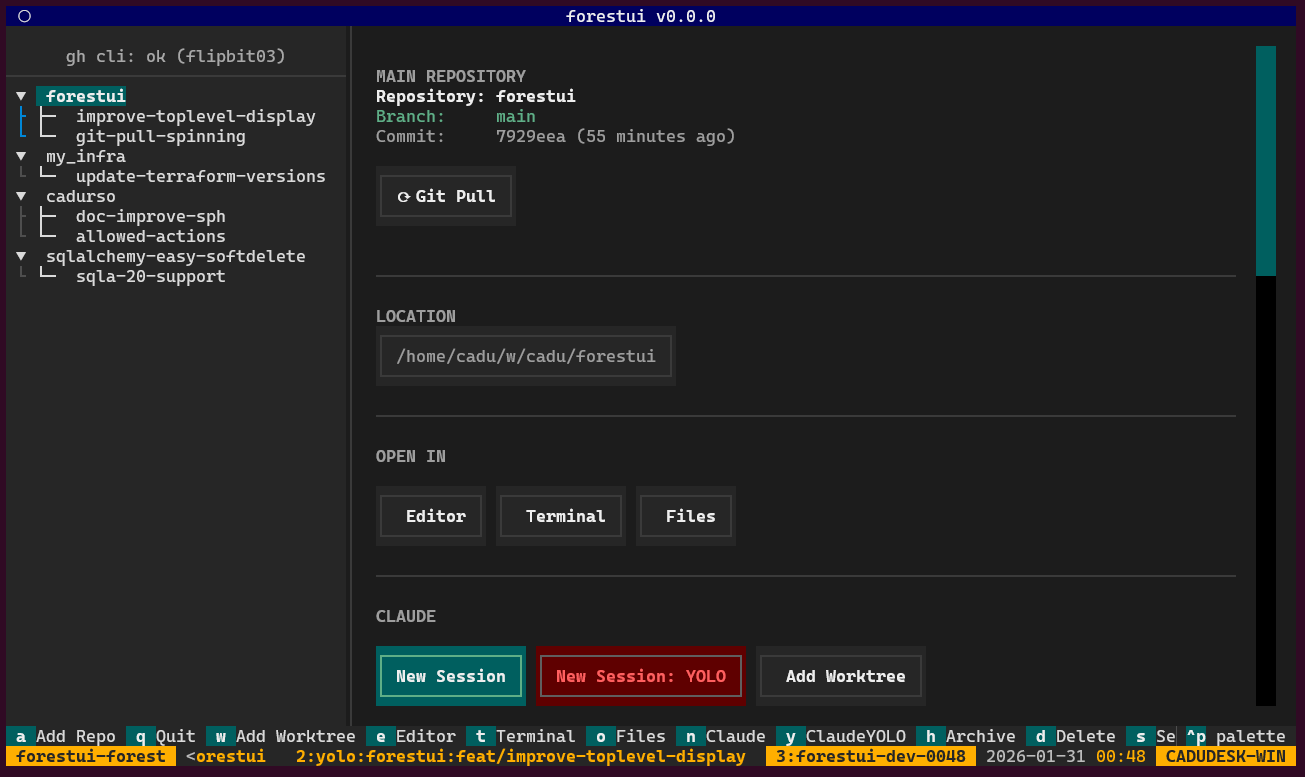
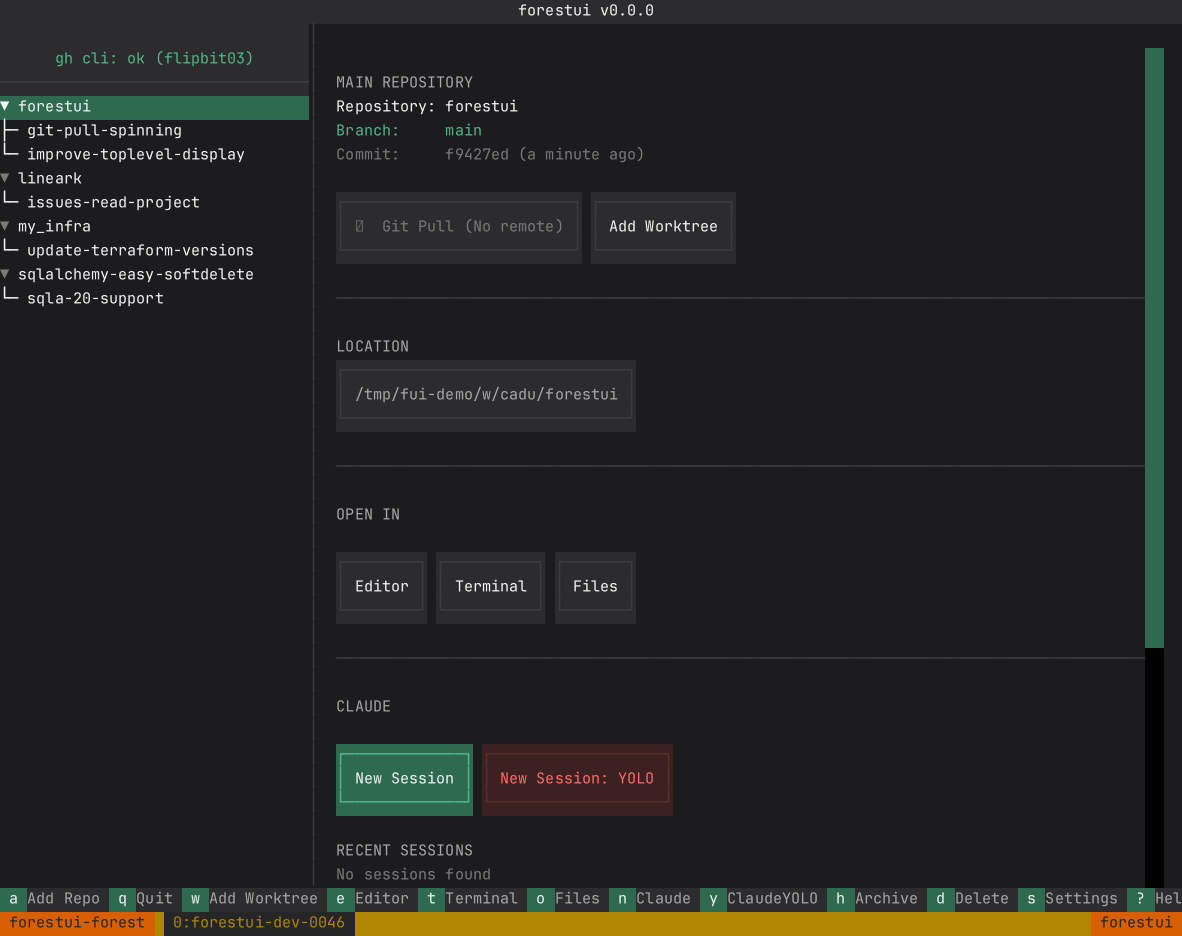
Update the docs and retake the screenshot for the Rust build
The screenshot was of the Textual build. Retaken from the current binary at the
same 130x39 terminal the original used — measured off the old PNG, whose key
badges are exactly three 10px cells wide — so the two frame the app identically.
Captured through a truecolor terminal: the default 256-colour path maps
`$accent-dark` onto a grey, which would have shown the selection bar, the footer
badges and the scrollbar thumb as grey rather than green.

README claims that had gone stale:

- The prebuilt targets were listed as two macOS and one gnu Linux. They are musl
  Linux x86_64 and aarch64, and macOS Apple silicon; Intel Macs build from
  source. The Linux binaries are static, which is worth saying.
- Install no longer silently falls back to a source build; it verifies the
  published checksum and refuses a mismatch.
- Updating said to re-run the installer. It updates itself now.
- "The scroll wheel moves the focused pane" was the behaviour this branch
  replaced — it follows the pointer. Hover, clickable footer keys, the fold
  twisties and the draggable scrollbar were all undocumented.

CLAUDE.md told the next contributor to keep `EnableMouseCapture`, which the code
no longer uses; without `?1003h` in its place hover is impossible rather than
unstyled, and the repaint gate that makes motion affordable is the thing not to
remove. Self-update is documented next to the other design decisions.

Sweep baselines regenerated for the sidebar change; the rust and python frames
[…]

diff --git a/CLAUDE.md b/CLAUDE.md
@@ -39,6 +39,7 @@ forestui/
 │   ├── state.rs              # Persisted repositories (.forestui-config.json)
 │   ├── theme.rs              # Colour palette and shared styles
 │   ├── util.rs               # Paths, slugs, relative times, fuzzy branch search
+│   ├── version_check.rs      # Startup self-update (see below)
 │   ├── ui/
 │   │   ├── mod.rs            # draw(): layout, header, footer, notifications
 │   │   ├── sidebar.rs        # Repository/worktree tree
@@ -100,7 +101,16 @@ objects and no CSS. Two consequences shape the code:
    against that list (last recorded wins, so a modal takes clicks from the panes
    it covers). A control that is drawn but never recorded is dead to the mouse —
    that was a real regression: the first Rust build enabled no mouse capture at
-   all and every click did nothing. `main.rs` must keep `EnableMouseCapture`.
+   all and every click did nothing.
+
+   `main.rs` writes the mouse modes by hand rather than using crossterm's
+   `EnableMouseCapture`, and **must keep `?1003h` (any-motion) among them** —
+   without it the terminal never reports a bare pointer move, so hover becomes
+   impossible rather than merely unstyled. Motion is affordable because
+   `App::handle_mouse` sets `App::redraw` only when the *hovered target changes*.
+   That gate is what stops a moving mouse repainting the app continuously;
+   removing it brings back the flicker that motion reporting was first disabled
+   for.
 
 Controls are drawn with `ui::button()`, which renders a filled pill with rounded
 half-block caps so they read as buttons rather than plain labels. Use
@@ -136,6 +146,32 @@ fast switching between editor, app, and Claude windows.
 
 The re-exec uses `std::env::current_exe()`, so a `cargo run` build re-launches
 itself rather than whatever `forestui` happens to be on `PATH`.
+
+### Self-update
+forestui keeps itself current the way the Python build did — automatically, on
+launch — but never on the UI thread. `App::check_for_update` spawns the check
+once the terminal is up, and the only visible result is a notification after a
+new version is already in place.
+
+What it does depends on how the binary got there:
+
+- **From a GitHub release** — built with `--features binary-release`, so it
+  downloads the asset for its platform and renames it over `current_exe()`.
+  Replacing the file under a running process is safe on Unix; the new build
+  takes effect on the next launch.
+- **From `cargo install`** — the feature is off, so it only reports that a newer
+  version exists. Recompiling a crate underneath a running TUI is not something
+  to do unasked.
+- **From source** (version `0.0.0`) — nothing at all, which is what stops
+  `cargo run` in a checkout from overwriting itself.
+
+`--no-self-update` skips the check. The answer is cached for 24h in
+`~/.config/forestui/latest_version_check.json`, so this is not a network call on
+every launch.
+
+`release_asset_url` must keep producing `forestui_<os>_<arch>`, matching
+`install.sh` and the release workflow. Drift there is a silent 404 on every
+update, which is why a test asserts the shape.
 
 ### Multi-Forest Support
 The forest directory is a CLI argument, not a setting:

diff --git a/README.md b/README.md
@@ -29,11 +29,11 @@ forestui brings Git worktree management to the terminal with a TUI built on
 
 ### Quick Install (recommended)
 
-Downloads a prebuilt binary, falling back to a source build when no binary
-matches your platform.
+Downloads the prebuilt binary for your platform and verifies its published
+checksum before installing.
 
 ```bash
-curl -fsSL https://raw.githubusercontent.com/flipbit03/forestui/main/install.sh | bash
+curl -fsSL https://raw.githubusercontent.com/flipbit03/forestui/main/install.sh | sh
 ```
 
 ### Install with cargo
@@ -42,15 +42,39 @@ curl -fsSL https://raw.githubusercontent.com/flipbit03/forestui/main/install.sh 
 cargo install forestui --locked
 ```
 
-Prebuilt binaries are published for `aarch64-apple-darwin`,
-`x86_64-apple-darwin`, and `x86_64-unknown-linux-gnu`. Every other platform
-builds from source with `cargo install`.
+Prebuilt binaries are published for:
+
+| Platform | Target |
+|---|---|
+| Linux x86_64 | `x86_64-unknown-linux-musl` |
+| Linux aarch64 | `aarch64-unknown-linux-musl` |
+| macOS Apple silicon | `aarch64-apple-darwin` |
+
+The Linux binaries are statically linked, so they carry no glibc floor and run
+anywhere. Intel Macs and every other platform build from source with
+`cargo install forestui`.
 
 ### Updating
 
-```bash
-cargo install forestui --locked   # or re-run install.sh
+forestui keeps itself up to date. It checks for a new release in the background
+after the UI is up — never blocking startup — and tells you once a newer version
+is in place:
+
 ```
+forestui v2.0.1 installed — restart to use it
+```
+
+A binary installed from a release replaces itself. One installed with
+`cargo install` reports the new version instead of recompiling underneath you,
+so you can update when it suits:
+
+```bash
+cargo install forestui --locked
+```
+
+Pass `--no-self-update` to skip the check entirely. The result is cached for a
+day, so this is not a network call on every launch, and a build from source
+(version `0.0.0`) never updates itself at all.
 
 > **Migrating from the Python build.** forestui was a Python/Textual
 > application through v0.9.x. The Rust rewrite reads the same config files, so
@@ -101,10 +125,17 @@ manager uses `a` add, `e` edit, `d` delete, `K` / `J` reorder, `s` save.
 
 ### Mouse
 
-The mouse works everywhere the keyboard does: click a repository or worktree in
-the sidebar to select it, click a control in the detail pane to run it, click a
-field to focus it, and click any modal button. The scroll wheel moves the
-focused pane.
+The mouse works everywhere the keyboard does. Controls light up as the pointer
+crosses them, so what is clickable is visible rather than guessed at:
+
+- **Click** a repository or worktree in the sidebar, a control in the detail
+  pane, a field to focus it, any modal button, or a key in the footer bar —
+  clicking `s Settings` there is the same as pressing `s`.
+- **The `▼` / `▶` twisty** beside a repository folds its worktrees away without
+  changing what is selected.
+- **The scroll wheel** scrolls whichever pane the pointer is over, whether or
+  not it holds the keyboard focus.
+- **The scrollbar** can be dragged, and clicking its track pages to that point.
 
 ### TUI Editor Integration
 
